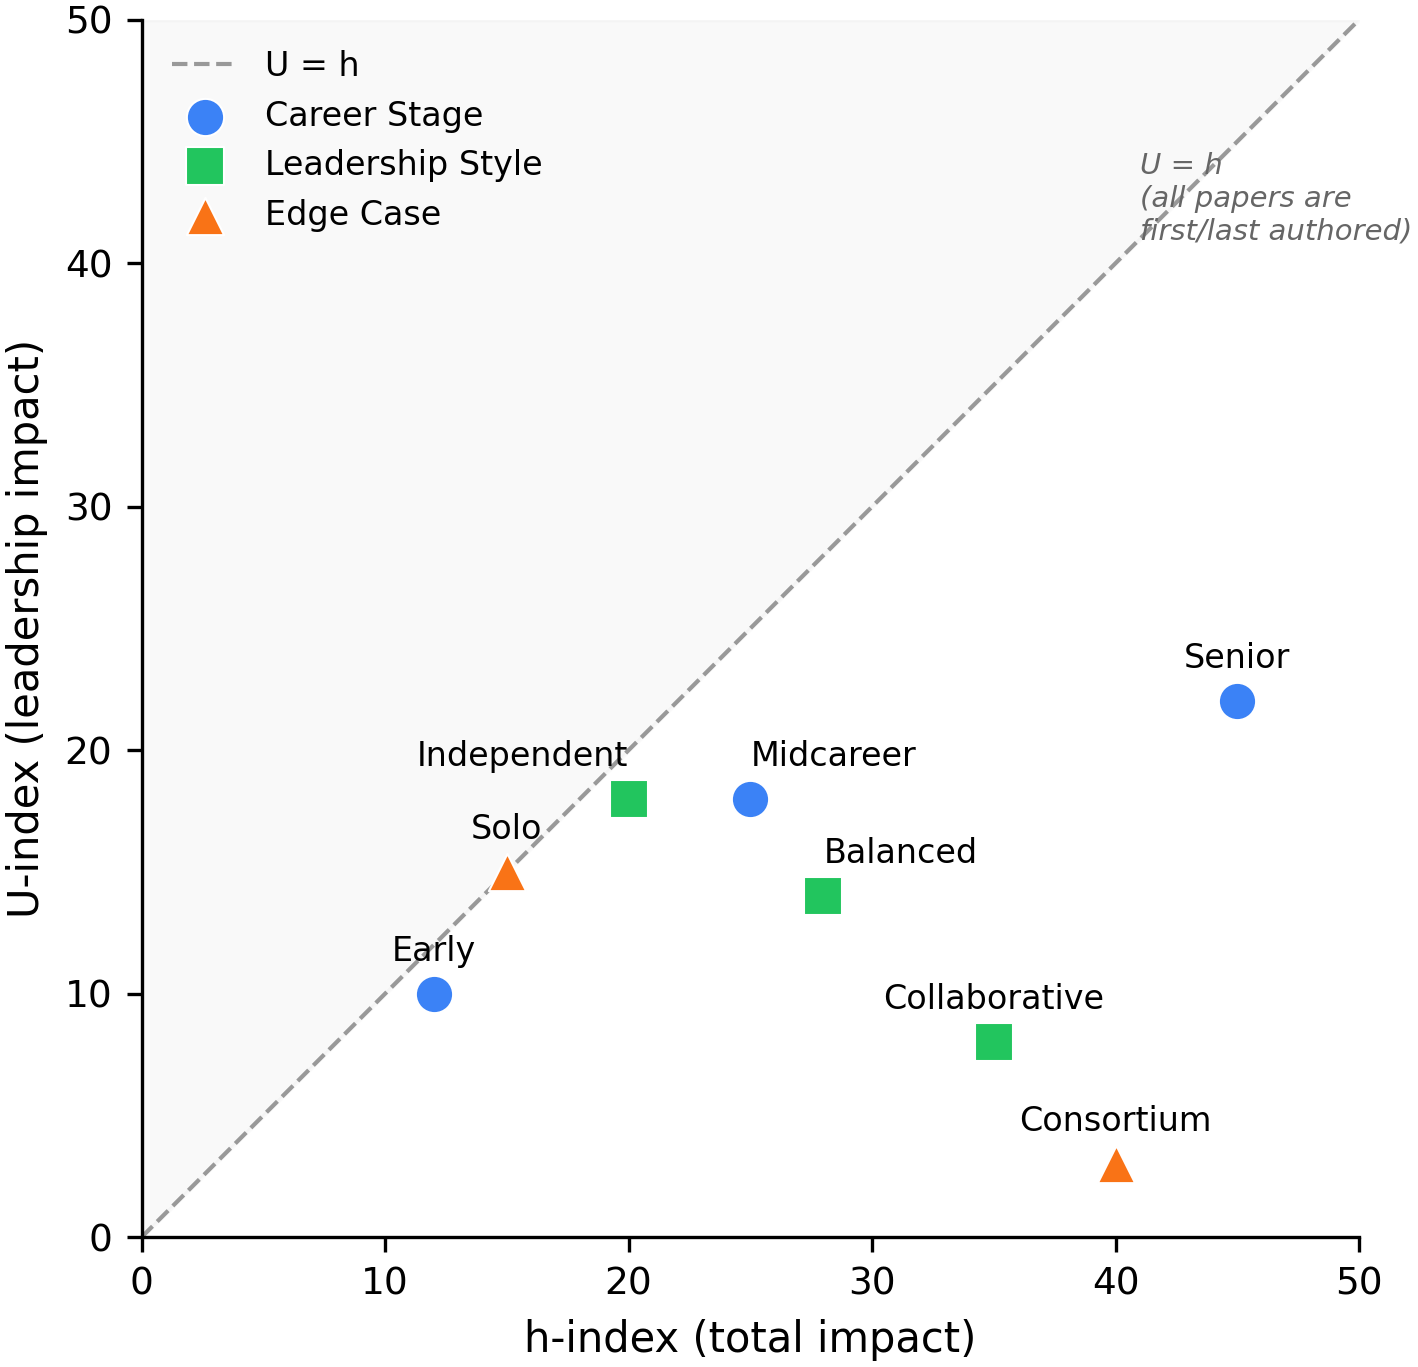
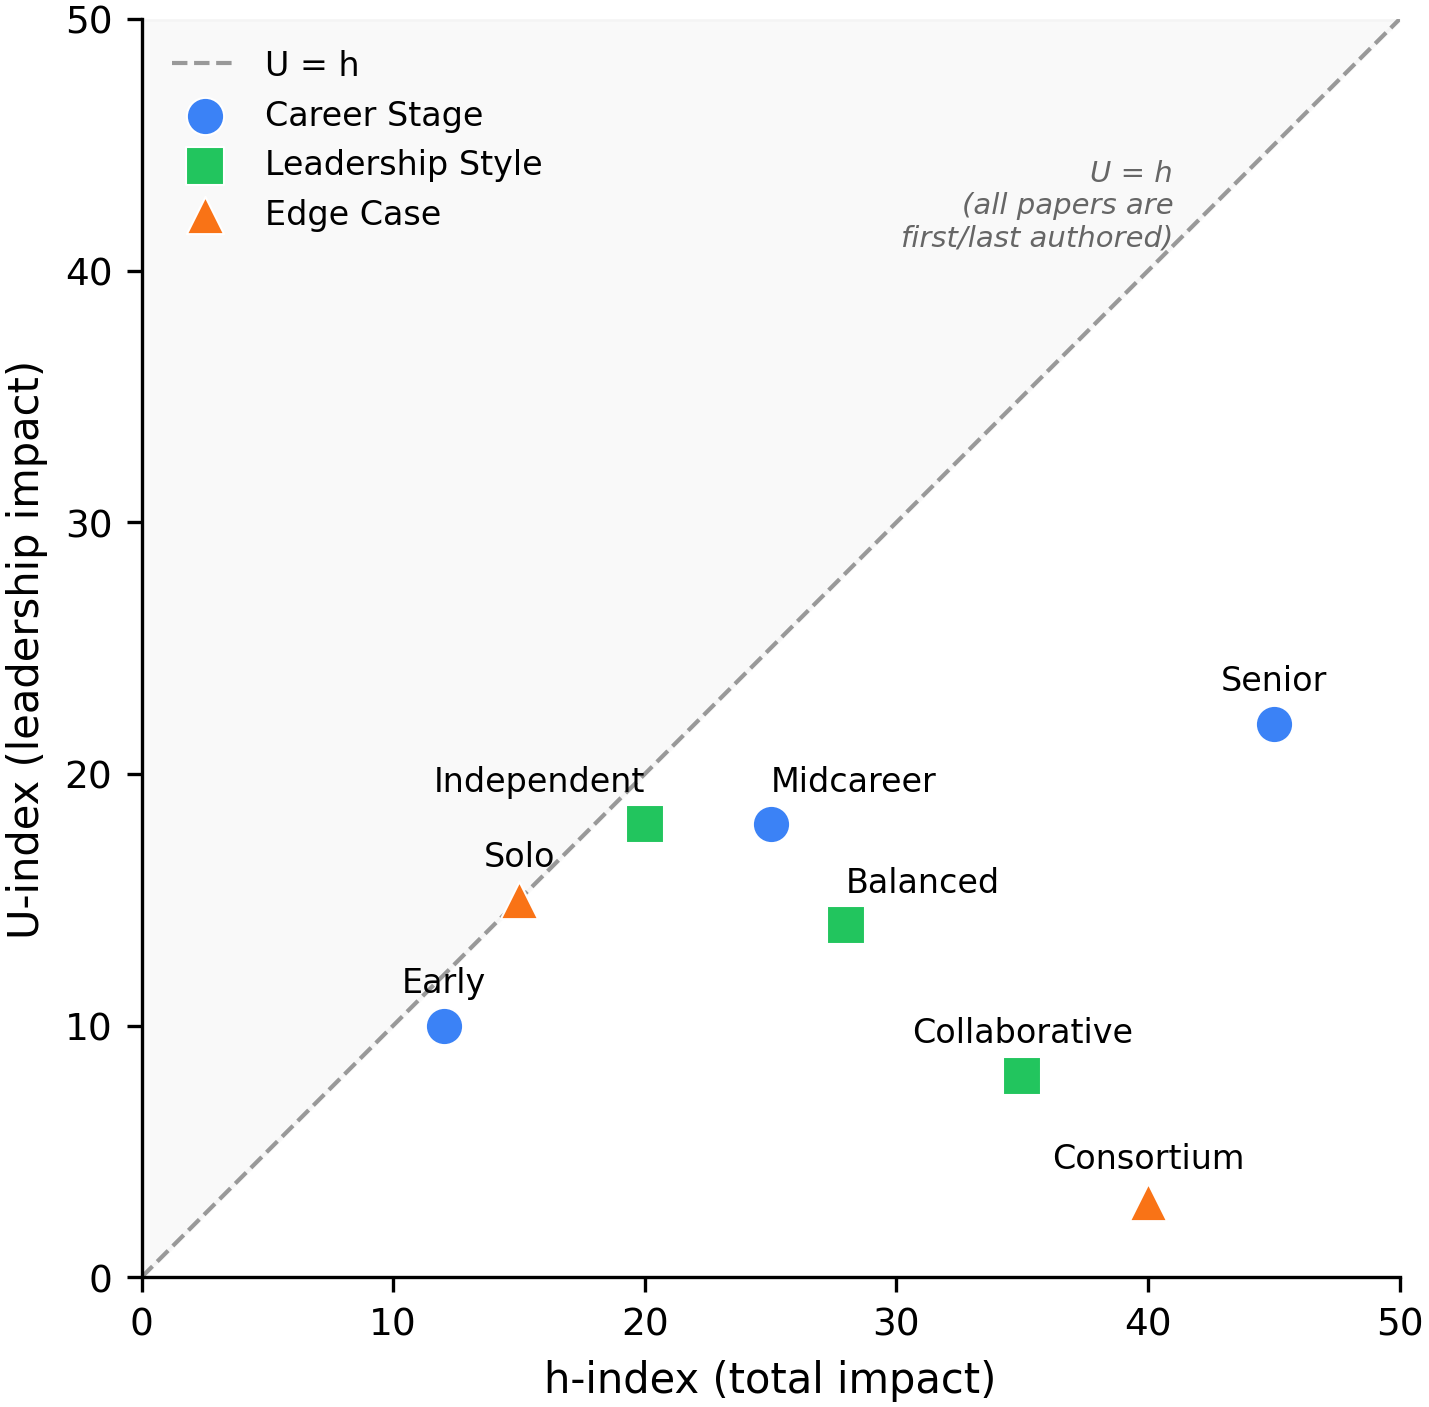
Right-align U=h annotation in scatter plot

diff --git a/examples/u_index_visualizations.py b/examples/u_index_visualizations.py
@@ -575,7 +575,7 @@ def create_scatter_manuscript() -> plt.Figure:
 
     # Add annotation explaining the diagonal
     ax.annotate("U = h\n(all papers are\nfirst/last authored)",
-                xy=(max_val - 9, max_val - 9), fontsize=7, color="#666", ha="left",
+                xy=(max_val - 9, max_val - 9), fontsize=7, color="#666", ha="right",
                 style="italic")
 
     plt.tight_layout()
